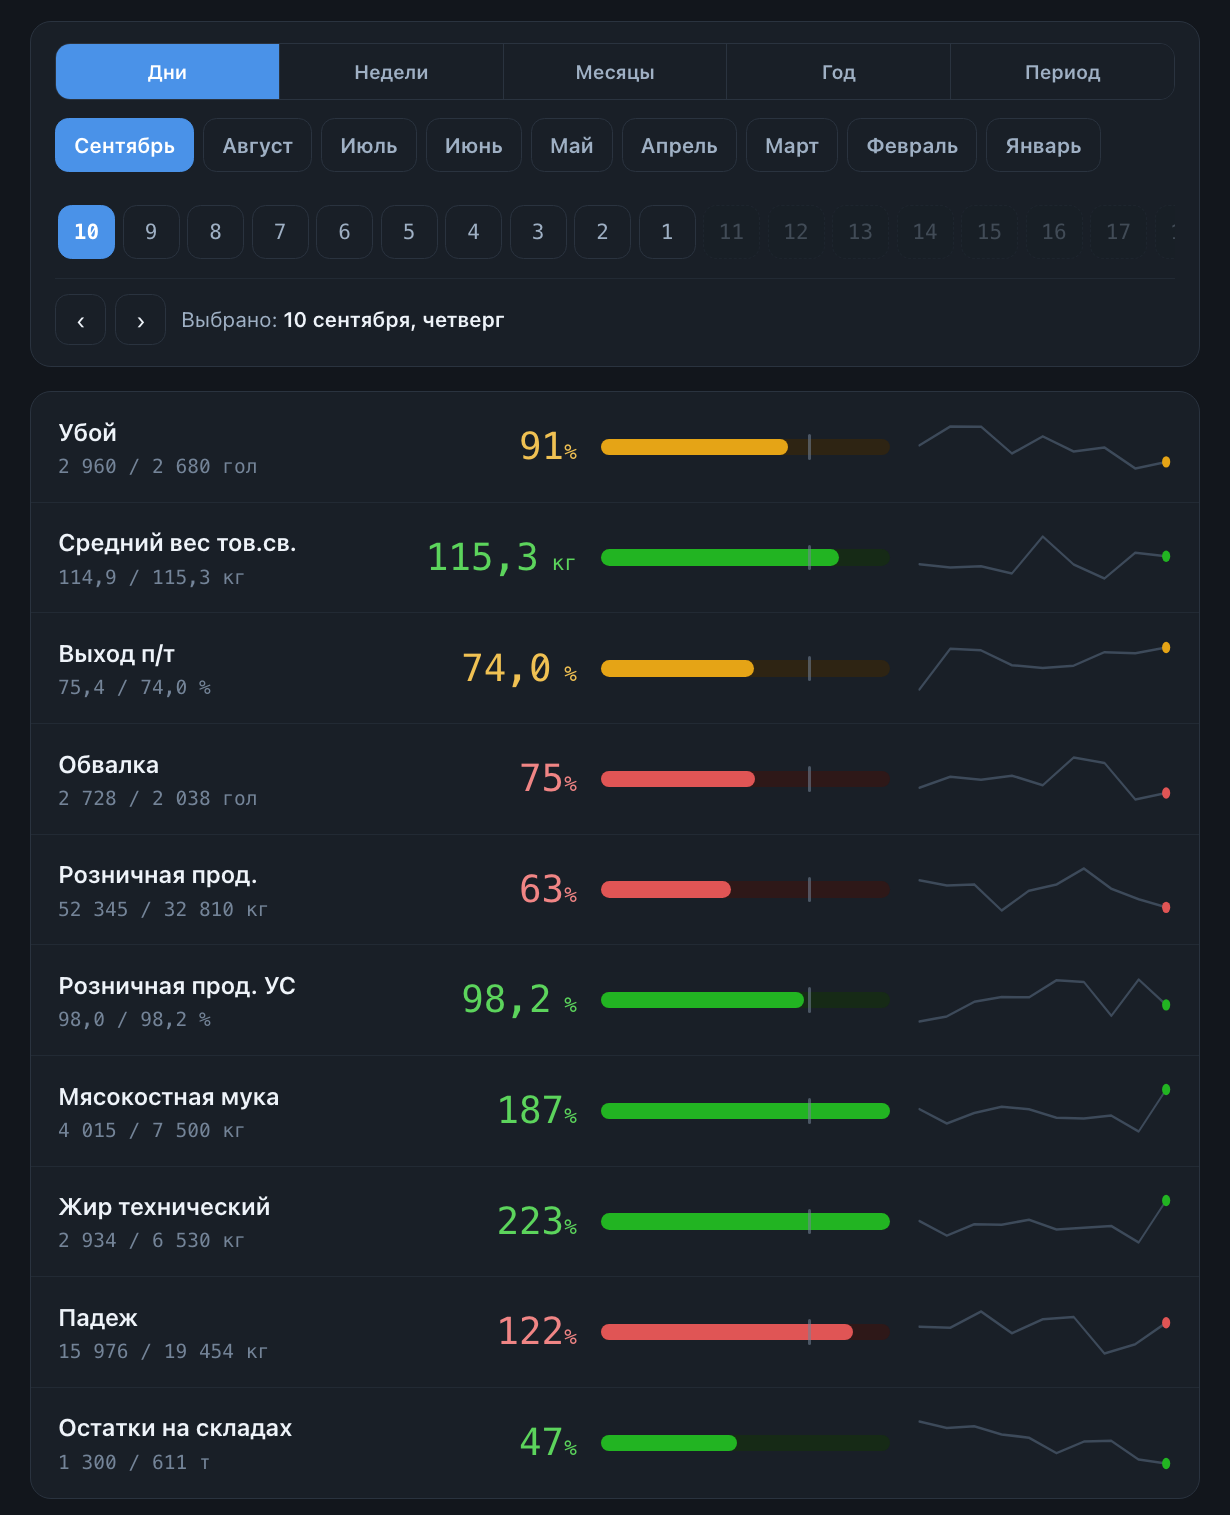
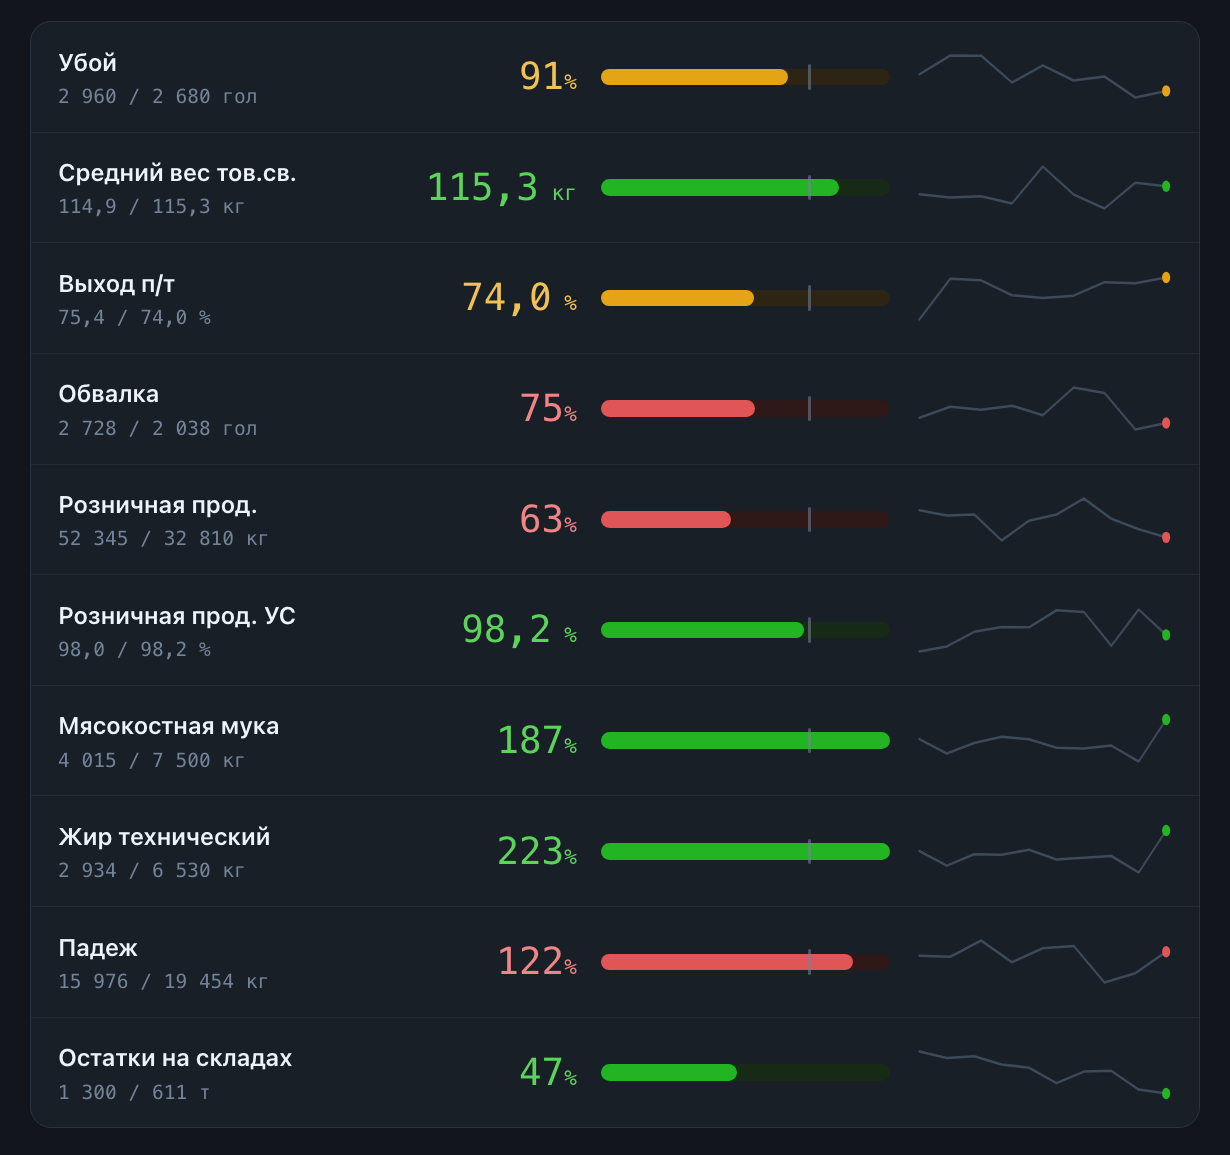
Данные по 10.09.2026

diff --git a/index.html b/index.html
@@ -8,7 +8,7 @@
 <meta property="og:type" content="website">
 <meta property="og:title" content="Сводка МПК за 10.09.2026">
 <meta property="og:image" content="https://pashaleb-alt.github.io/MPK/preview.png">
-<meta property="og:image:width" content="1230"><meta property="og:image:height" content="1515">
+<meta property="og:image:width" content="1230"><meta property="og:image:height" content="1155">
 <meta name="twitter:card" content="summary_large_image">
 <meta name="twitter:image" content="https://pashaleb-alt.github.io/MPK/preview.png">
 <title>Интерактивный отчет МПК 2026</title>
